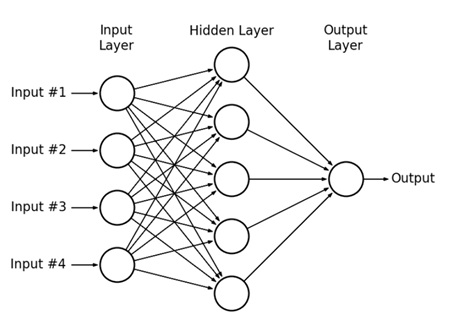
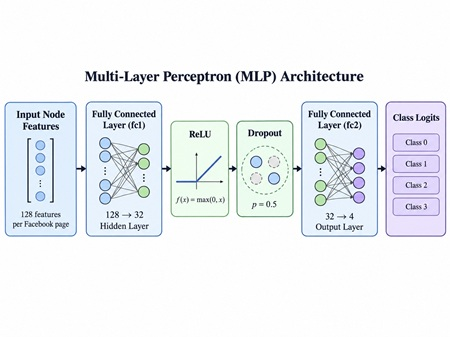
Added MLP and GCN sections of report.

diff --git a/recognition/MultiLayer_GNN_s4801265/README.md b/recognition/MultiLayer_GNN_s4801265/README.md
@@ -394,26 +394,81 @@ and GCN use the same splits, ensuring that their performance can be compared fai
 The multi-layer perceptron is a neural network model which consists of multiple layers of
 neurons. The model is made up of an input layer, hidden layer(s), and an output layer, 
 where the neurons in the MLP typically use nonlinear activation functions, allowing the
-network to learn complex patterns in data. This type of neural network can be used to 
-solve both classification and regression problems.
+network to learn complex nonlinear patterns in data. This type of neural network can be 
+used to solve both classification and regression problems.
 
 For this project the MLP was chosen as a baseline as it does not consider edge
 connections between the nodes, only the node features themselves for classification.
 This is useful as it can help evaluate whether graph connections improve classification
 and confidence reliability.
 
+The implemented MLP for this project contains two fully connected layers. The first layer 
+receives the 128-dimensional features of each Facebook page as input into its first hidden
+layer of 32 neurons and produces 32 hidden features. A ReLU activation function is then 
+applied to each neuron output, followed by dropout with a probability of 0.5. The second 
+fully connected layer converts the 32 hidden features altered by the activation function 
+and dropout, and produces four outputs corresponding to the four Facebook page categories.
+
+The four outputs are logits which represent the model's prediction scores for each class,
+where the highest score is the predicted class for the given input. These logits are used 
+to calculate the cross-entropy loss during training and are converted into class 
+probabilities using softmax during inference and evaluation.
+
+So the MLP has the following architecture:
+* One input layer (128 features)
+* One hidden layer (32 neurons) with RELU activation and 0.5 dropout
+* One ouptut layer (4 neurons)
+
 ![Multi-Layer Perceptron Diagram](images/mlp_diagram.jpg)
 
-*Figure 1: General illustration of an MLP architecture [4].*
+*Figure 1: Illustration of project MLP architecture.*
 
 ## Two-Layer Graph Convolutional Network (GCN)
+The Graph Convolutional Network (GCN) is a type of Graph Neural Network (GNN) which uses 
+both node features and graph connections to learn information about the nodes. Unlike the 
+MLP, which considers each node separately, the GCN uses information from neighbouring nodes 
+when calculating its hidden features. This allows the model to learn patterns based on both 
+the individual Facebook pages and their connections to other pages.
+
+The graph convolution operation is given by:
+$$
+H^{(l+1)}=\sigma\left(\hat{D}^{-1/2}\hat{A}\hat{D}^{-1/2}H^{(l)}W^{(l)}+b^{(l)}\right)
+$$
+
+Where:
+* $H^{(l)}$ and $H^{(l+1)}$ represent the input and output node features.
+* $\hat{A}=A+I$ is the adjacency matrix with self-connections added.
+* $\hat{D}$ is the degree matrix used to normalise the graph connections.
+* $W^{(l)}$ and $b^{(l)}$ are the learnable weights and bias.
+* $\sigma$ is the activation function.
+
+The self-connections allow each node to include its own features, while degree normalisation 
+prevents nodes with more connections from having an excessively large influence. The 
+learnable weights are updated during training to identify useful feature combinations.
+
+For this project, a two-layer GCN was implemented using the GCNConv layers provided by 
+PyTorch Geometric. The first graph convolutional layer receives the 128-dimensional node 
+features and produces 32 hidden features for each node. This layer combines the features of 
+each node with information from its directly connected neighbours. A ReLU activation 
+function and dropout with a probability of 0.5 are then applied before passing the features 
+to the second graph convolutional layer.
+
+The second graph convolutional layer receives the 32 hidden features and produces four 
+output logits corresponding to the four Facebook page categories. Because the GCN contains 
+two graph convolutional layers, information can be passed through up to two graph 
+connections, allowing each node's prediction to be influenced by its two-hop neighbourhood.
+
+So the GCN has the structure:
+* One input feature representation (128 features per node).
+* One hidden graph convolutional layer (32 features per node).
+* One output graph convolutional layer (4 features per node).
 
 ![Two-Layer GCN Diagram](images/gcn_diagram.jpg)
 
 *Figure 2: Illustration of project GCN architecture.*
 
+## Model Architectures and Hyperparameters Summary
 
-## Model Architectures and Hyperparameters
 
 ## Training Procedure and Optimisation
 
@@ -683,11 +738,6 @@ adjusted. If it offers little improvement, the MLP will remain the simpler fallb
 [2] Stanford Network Analysis Project (SNAP), “Facebook Large Page-Page Network,” Stanford University. [Online]. Available: https://snap.stanford.edu/data/facebook-large-page-page-network.html
 
 [3] PyTorch Geometric, “torch_geometric.datasets.FacebookPagePage,” PyTorch Geometric Documentation, Version 2.6.0. [Online]. Available: https://pytorch-geometric.readthedocs.io/en/2.6.0/generated/torch_geometric.datasets.FacebookPagePage.html
-
-[4] University of Nottingham, “Practical: Multi-layer perceptron,”
-Machine Learning for Image Data, FutureLearn. [Online].
-Available: https://www.futurelearn.com/info/courses/machine-learning-for-image-data/0/steps/362737
-
 
 
 
